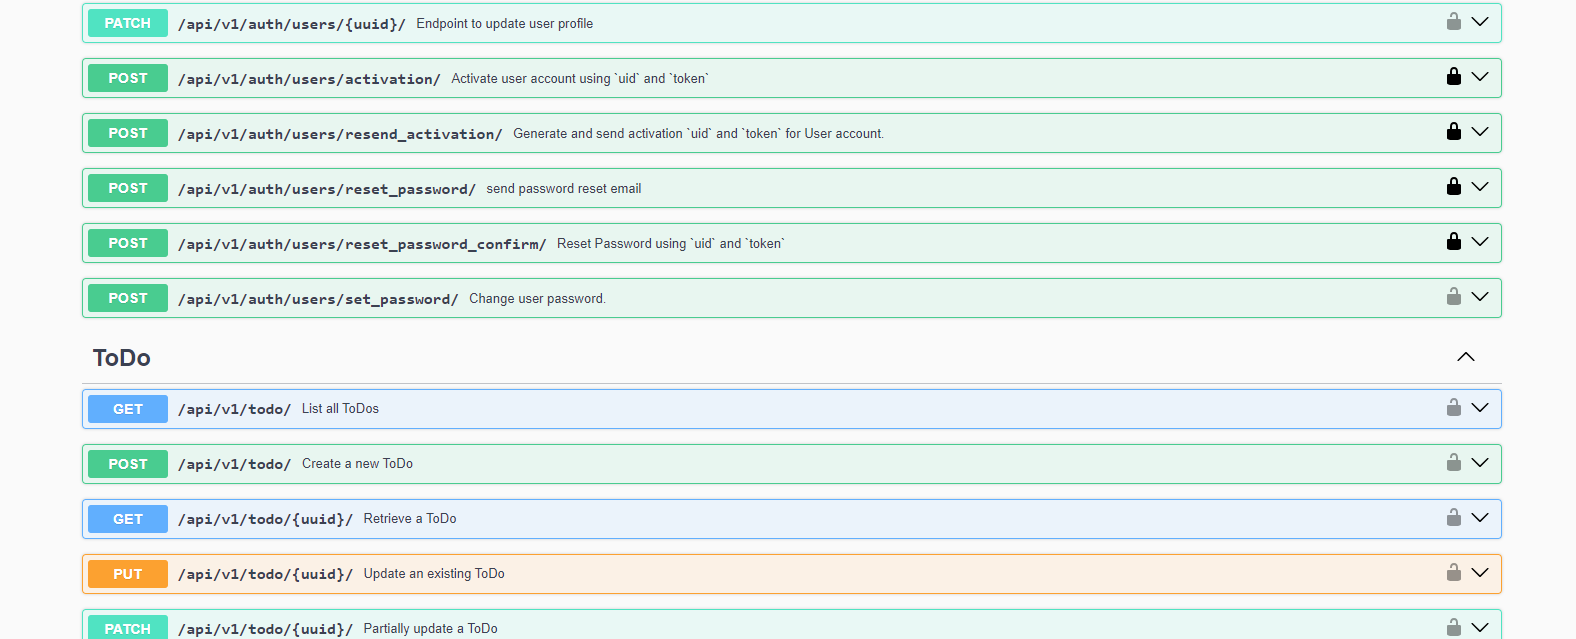
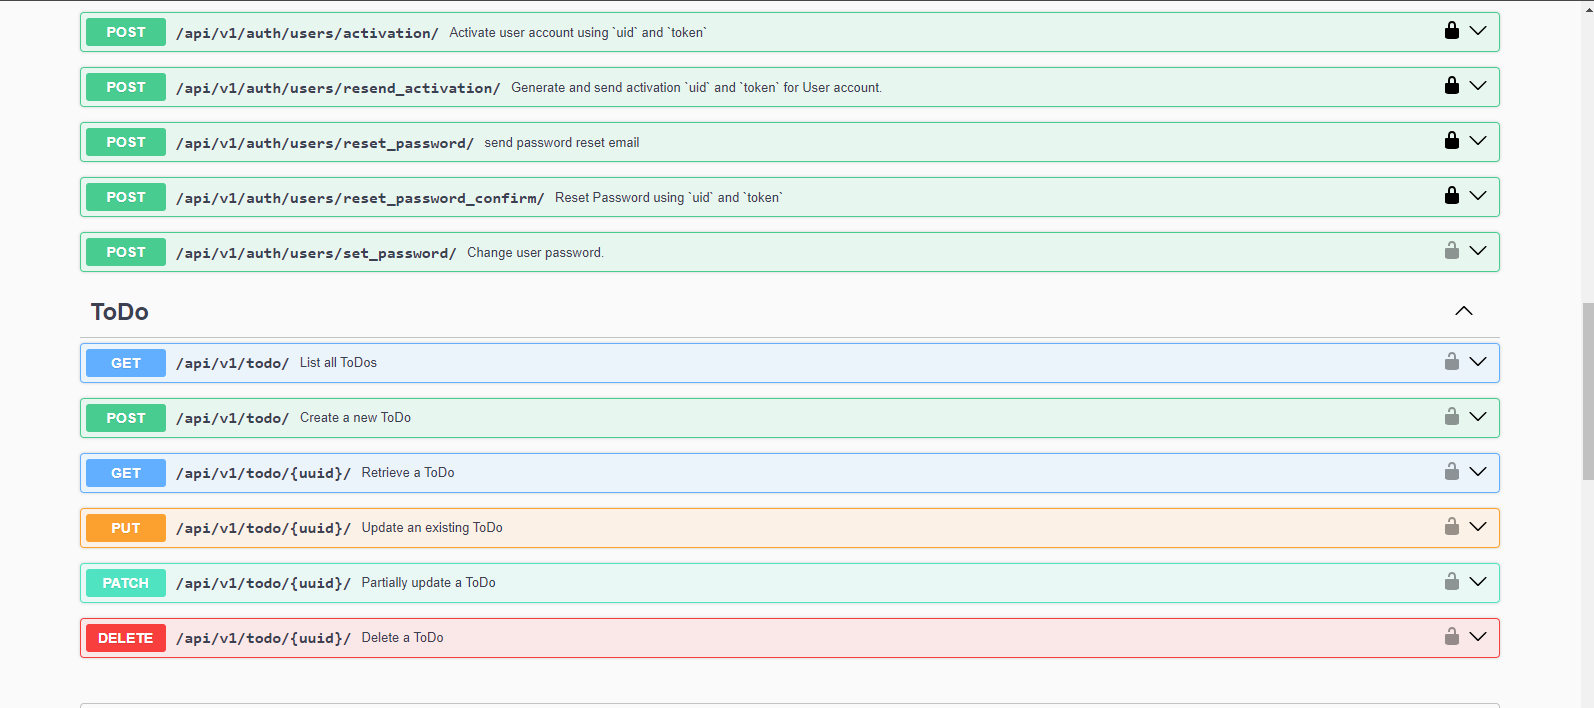
add the api doc in the readme

diff --git a/README.md b/README.md
@@ -1,3 +1,3 @@
 ![alt text](todo_jwt.png)
 ![alt text](todo_me_social.png)
-![alt text](todo_api.png)
+![alt text](todo_api.PNG)
